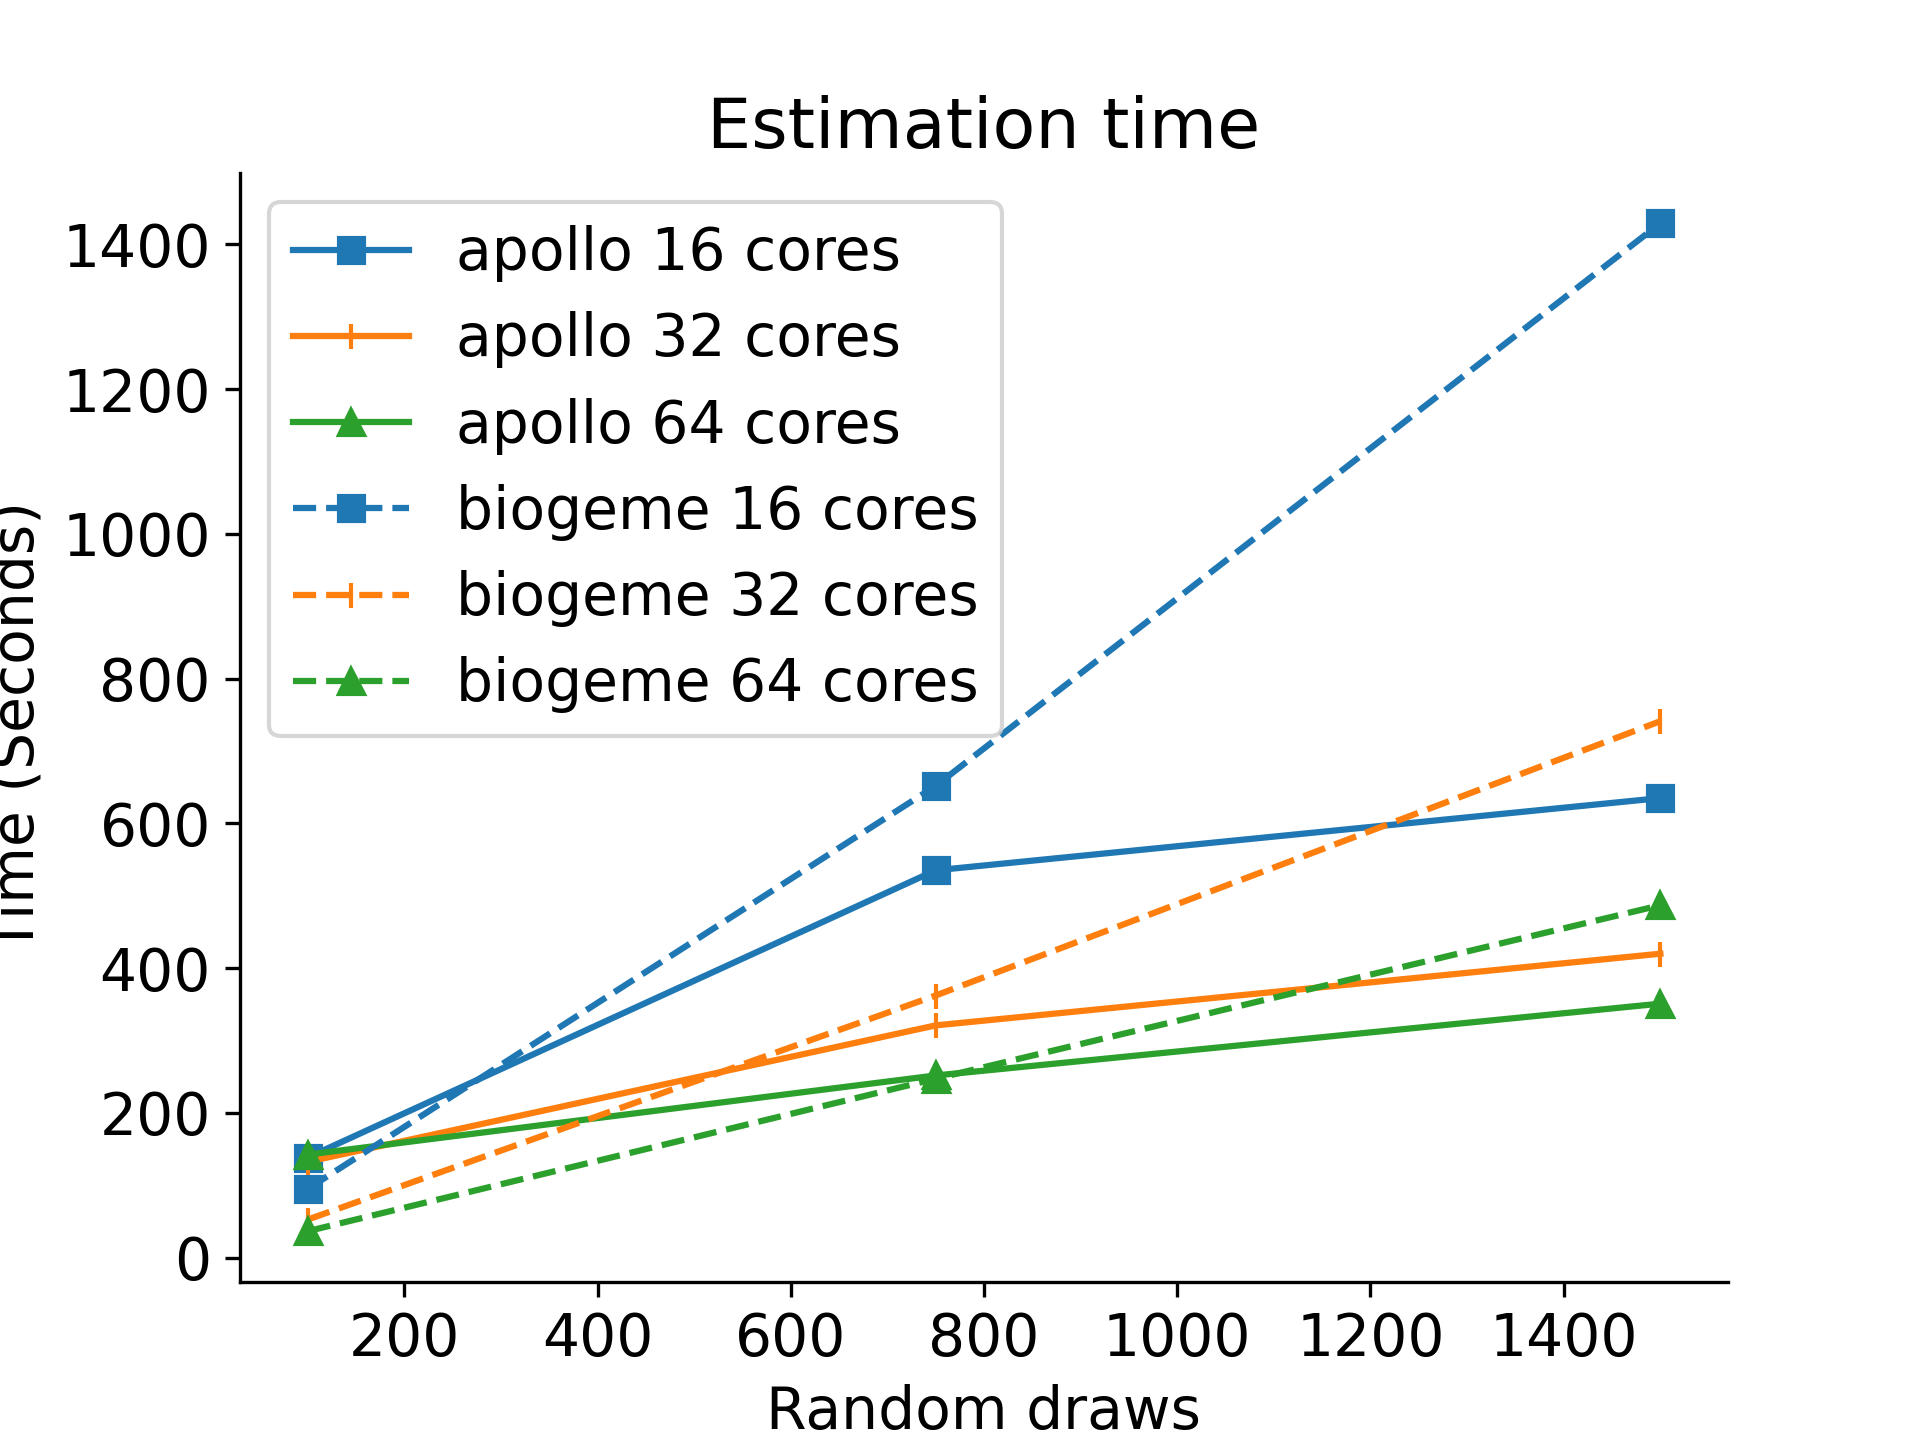
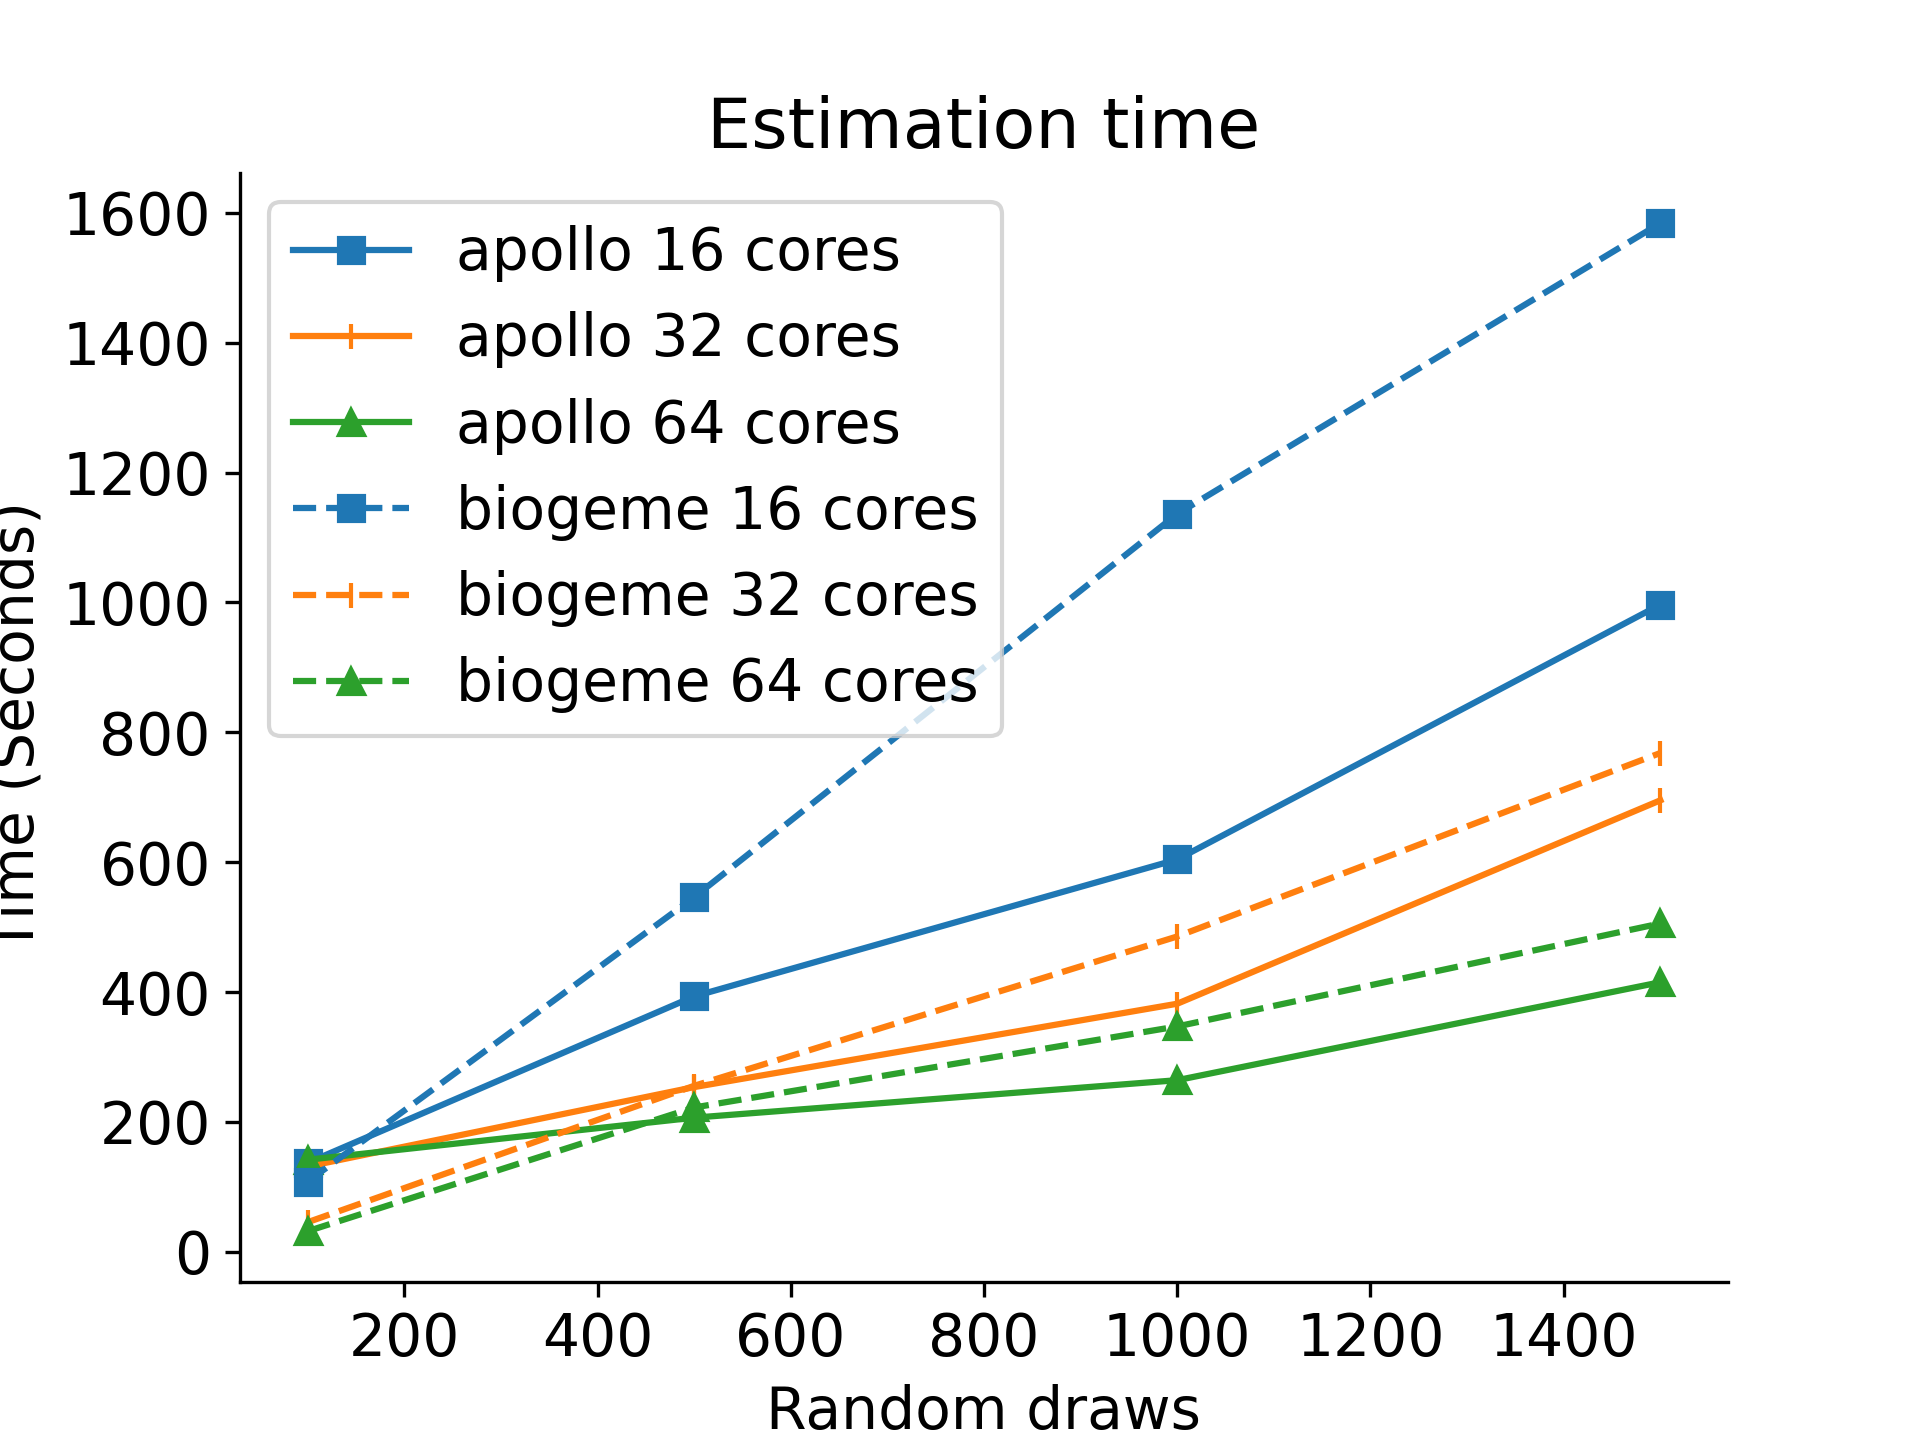
Updated biogeme/apollo benchmark

diff --git a/examples/benchmark/benchmark_apollo_biogeme.py b/examples/benchmark/benchmark_apollo_biogeme.py
@@ -4,22 +4,29 @@ import pandas as pd
 import os
 
 
+output_file = "results/benchmark_results_apollo_biogeme.csv"
+
+if os.path.exists(output_file):
+    os.remove(output_file)
+with open(output_file, 'a') as fw:
+    fw.write("library,draws,cores,time,loglik\n")
+
 def profile_range_draws_and_cores(command, r_draws, r_cores):
     print("\n\n=== artificial dataset. "+command.split()[1] +" ===")
     for n_draws in r_draws:
         for n_cores in r_cores:
             os.system("{} {} {}".format(command, n_draws, n_cores))
 
-r_draws = [100, 750, 1500]
+r_draws = [100, 500, 1000, 1500]
 r_cores = [16, 32, 64]
 
 
-#profile_range_draws_and_cores("python biogeme_run.py", r_draws, r_cores)
-#os.environ['OPENBLAS_NUM_THREADS'] = "1" # Avoids segfault error
-#profile_range_draws_and_cores("Rscript apollo_run.R", r_draws, r_cores)
+profile_range_draws_and_cores("python biogeme_run.py", r_draws, r_cores)
+os.environ['OPENBLAS_NUM_THREADS'] = "1" # Avoids segfault error
+profile_range_draws_and_cores("Rscript apollo_run.R", r_draws, r_cores)
 
 # Plot results
-df = pd.read_csv("results/apollo_biogeme_benchmark_results.csv")
+df = pd.read_csv(output_file)
 
 libs = ['apollo', 'biogeme']
 matplotlib.rcParams.update({'font.size': 14,
@@ -40,7 +47,9 @@ def plot_time_benchmark(df):
     plt.xlabel("Random draws")
     plt.ylabel("Time (Seconds)")
     plt.title("Estimation time")
-    plt.savefig("results/time_benchmark_apolllo_biogeme", dpi=300)
+    plt.tight_layout()
+    plt.savefig("results/time_benchmark_apollo_biogeme", dpi=300,
+                bbox_inches='tight')
     plt.show()
 
 plot_time_benchmark(df)

diff --git a/examples/benchmark/biogeme_run.py b/examples/benchmark/biogeme_run.py
@@ -82,7 +82,8 @@ logger.setSilent()
 biogeme = bio.BIOGEME(database, logprob, numberOfDraws=n_draws,
 	numberOfThreads=n_cores)
 biogeme.modelName = 'MixedLogitArtificial'
-
+biogeme.generateHtml = False
+biogeme.generatePickle = False
 # Estimate the parameters
 results = biogeme.estimate()
 ellapsed = time() - start_time
@@ -90,6 +91,6 @@ ellapsed = time() - start_time
 print("draws={} cores={} time(s)={:.2f} LogLik={:.2f}".format(n_draws, n_cores,
                                   ellapsed, results.data.logLike))
 
-with open("results/results_apollo_biogeme.csv", 'a') as fw:
+with open("results/benchmark_results_apollo_biogeme.csv", 'a') as fw:
     fw.write("{},{},{},{},{}\n".format("biogeme", n_draws, n_cores,
                                  ellapsed, results.data.logLike))

diff --git a/examples/benchmark/plot_benchmark_results.py b/examples/benchmark/plot_benchmark_results.py
@@ -2,7 +2,7 @@ import matplotlib.pyplot as plt
 import matplotlib
 import pandas as pd
 
-df = pd.read_csv("results/profiling_results.csv")
+df = pd.read_csv("results/benchmark_results.csv")
 
 libs = ['pylogit', 'mlogit', 'xlogit', 'xlogit_gpu']
 matplotlib.rcParams.update({'font.size': 14,

diff --git a/examples/benchmark/benchmark.py b/examples/benchmark/benchmark.py
@@ -43,4 +43,4 @@ print_estimates("python pylogit_run.py", 1200, "electricity")
 print_estimates("Rscript mlogit_run.R", 1200, "electricity")
 
 # Plot profiling results
-os.system("python plot_profiling_results.py")
+os.system("python plot_benchmark_results.py")

diff --git a/examples/benchmark/tools/_profiler.py b/examples/benchmark/tools/_profiler.py
@@ -5,7 +5,7 @@ import psutil
 import os
 import sys
 cupymem = cupy.get_default_memory_pool()
-output_file = "results/profiling_results.csv"
+output_file = "benchmark_results.csv"
 process = psutil.Process(os.getpid())
 
 
